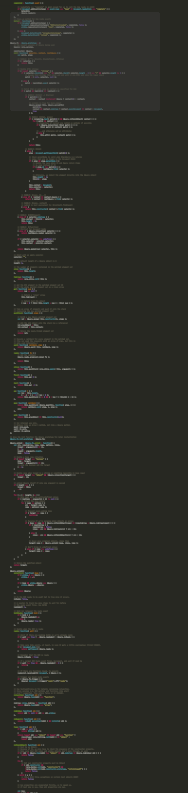
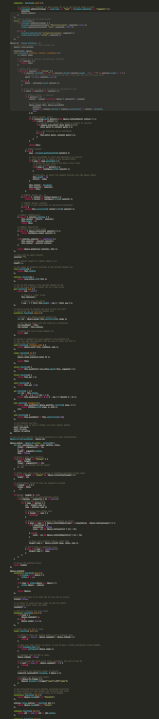
minimap/scrollbar behavior

diff --git a/css/sublime.css b/css/sublime.css
@@ -210,7 +210,7 @@ html, body
 	background-repeat: no-repeat;
 	background-image: url('minimap.png');
 	height:719px;
-	width:188px;
-	z-index: 62;
+	width:159px;
+	z-index: 64;
 
 }
